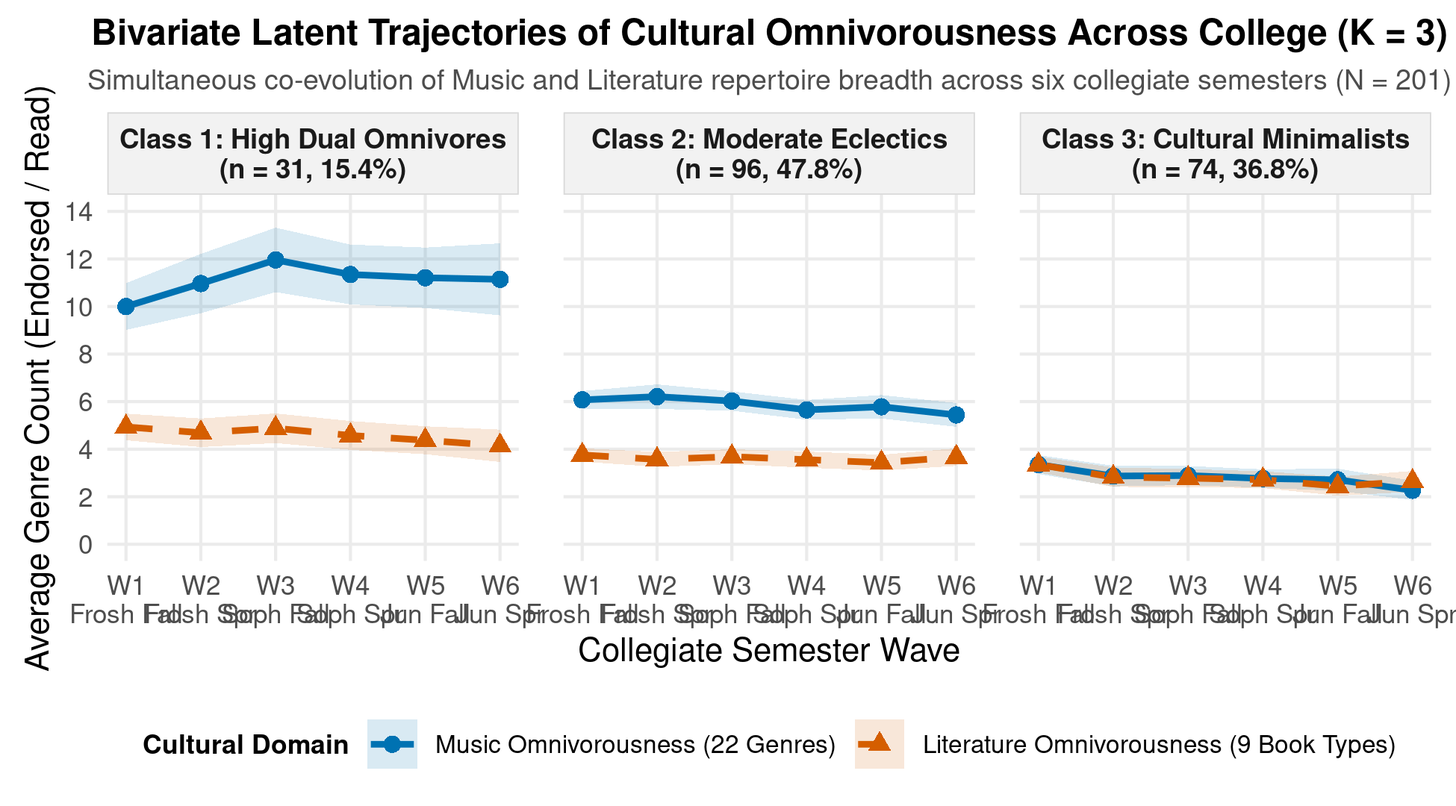
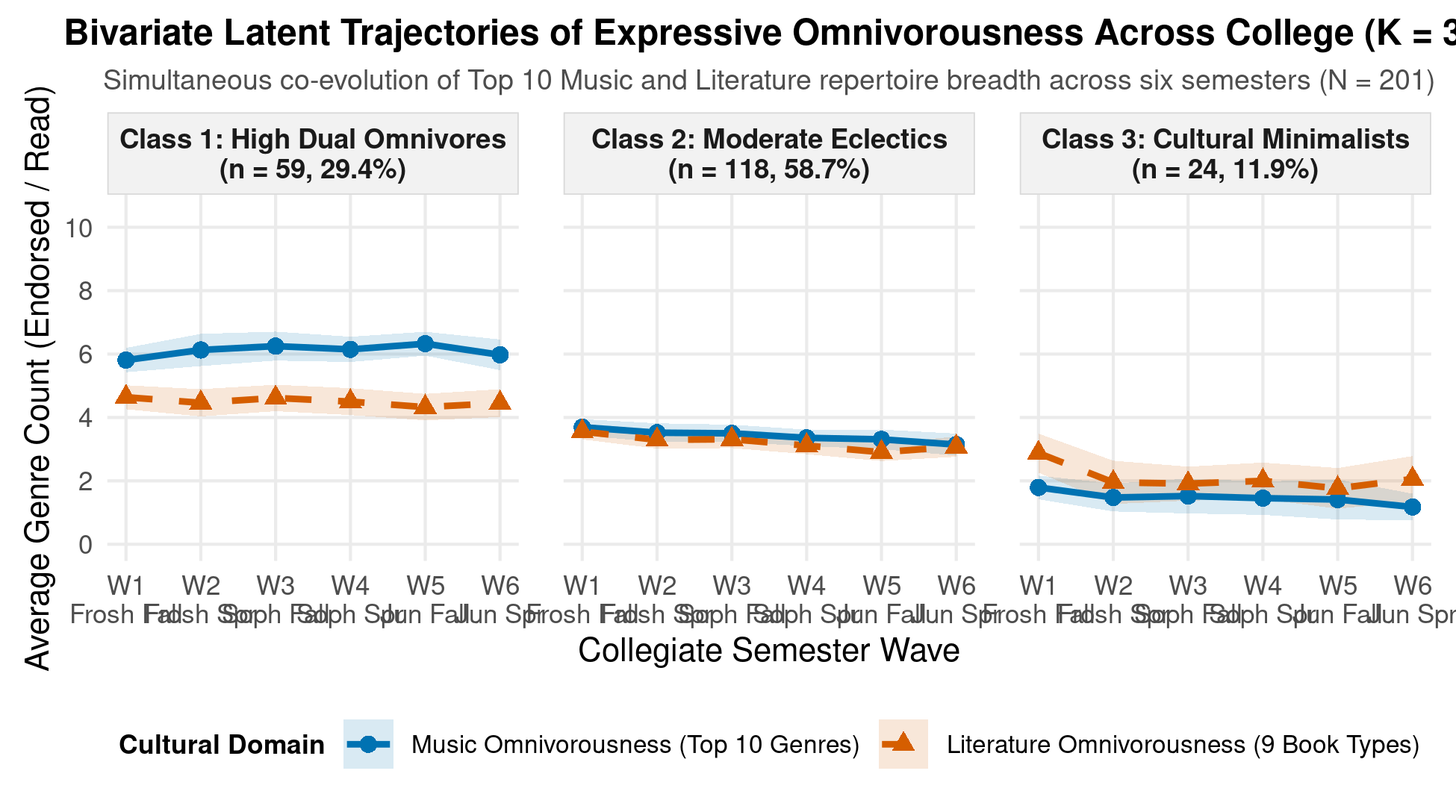
refactor: specify bivariate Poisson model using top 10 musical genres

diff --git a/manuscript.tex b/manuscript.tex
@@ -292,7 +292,7 @@ Crucially, demographic characteristics operate almost exclusively as between-cla
 
 While the item-specific multivariate binary models identify discrete genre specializations within reading (Nonfictionists vs. Fictionists vs. Minimalists) and musical preferences (Omnivores vs. Rockers vs. Mainstreamers), classical sociological theories of cultural capital and omnivorousness also conceptualize aesthetic breadth in terms of overall portfolio volume across expressive domains \citep{peterson1996changing,lizardo2006cultural}. Under this perspective, cultural omnivorousness is defined by the breadth of genres an individual consumes or appreciates, reflecting an underlying disposition toward cultural exploration and cosmopolitan variety. To examine whether aesthetic breadth in music co-evolves with aesthetic breadth in literature, we extend our finite mixture framework to a joint bivariate Poisson latent class growth model across all six collegiate semesters ($N = 201, 1,006$ person-wave observations).
 
-For each student $i$ at semester wave $t \in \{1, \dots, 6\}$, we simultaneously model two Poisson count outcomes: Musical Omnivorousness ($Y_{1, it} \in \{0, \dots, 22\}$, representing the total number of musical genres endorsed across the full 22-genre inventory) and Literature Omnivorousness ($Y_{2, it} \in \{0, \dots, 9\}$, representing the total number of book genres read for leisure). Following the specification used in the item-level models, trajectory slopes are parameterized via orthogonal natural cubic splines ($\text{ns}(t, \text{df}=2)$) centered at matriculation, estimated jointly using the \texttt{flexmix} package \citep{grun2008flexmix} in \textsf{R} \citep{Rmanual}.
+For each student $i$ at semester wave $t \in \{1, \dots, 6\}$, we simultaneously model two Poisson count outcomes: Musical Omnivorousness ($Y_{1, it} \in \{0, \dots, 10\}$, representing the total number of musical genres endorsed across the 10 focal genres analyzed above) and Literature Omnivorousness ($Y_{2, it} \in \{0, \dots, 9\}$, representing the total number of book genres read for leisure). Following the specification used in the item-level models, trajectory slopes are parameterized via orthogonal natural cubic splines ($\text{ns}(t, \text{df}=2)$) centered at matriculation, estimated jointly using the \texttt{flexmix} package \citep{grun2008flexmix} in \textsf{R} \citep{Rmanual}.
 
 \begin{table}[htbp]
 \centering
@@ -305,51 +305,51 @@ For each student $i$ at semester wave $t \in \{1, \dots, 6\}$, we simultaneously
 Specification & LogLik & Par & AIC & BIC & $\Delta$BIC / $\chi^2$ ($df$) & $p$ \\
 \midrule
 \multicolumn{7}{l}{\textbf{Panel A: Latent Class Enumeration ($K = 1 \dots 5$)}} \\
-$K = 1$ (Homogeneous Growth) & -4704.3 & 6 & 9420.5 & 9450.0 & $\Delta\text{BIC} = 915.7$ & --- \\
-$K = 2$ & -4289.0 & 13 & 8604.1 & 8667.9 & $\Delta\text{BIC} = 133.6$ & $< .001$ \\
-$K = 3$ (Optimal Specification) & -4198.0 & 20 & 8436.1 & 8534.3 & $\Delta\text{BIC} = 0.0$ & $< .001$ \\
-$K = 4$ & -4180.3 & 27 & 8414.6 & 8547.2 & $\Delta\text{BIC} = 12.9$ & $< .001$ \\
-$K = 5$ & -4154.7 & 34 & 8377.3 & 8544.4 & $\Delta\text{BIC} = 10.1$ & $< .001$ \\
+$K = 1$ (Homogeneous Growth) & -4101.8 & 6 & 8215.6 & 8245.1 & $\Delta\text{BIC} = 368.9$ & --- \\
+$K = 2$ & -3900.2 & 13 & 7826.4 & 7890.3 & $\Delta\text{BIC} = 14.1$ & $< .001$ \\
+$K = 3$ (Optimal Specification) & -3869.0 & 20 & 7777.9 & 7876.2 & $\Delta\text{BIC} = 0.0$ & $< .001$ \\
+$K = 4$ & -3852.9 & 27 & 7759.7 & 7892.4 & $\Delta\text{BIC} = 16.2$ & $< .001$ \\
+$K = 5$ & -3849.4 & 34 & 7766.8 & 7933.9 & $\Delta\text{BIC} = 57.7$ & 0.439 \\
 \addlinespace[3pt]
 \multicolumn{7}{l}{\textbf{Panel B: Predictive Power of Theoretical Variable Blocks ($K = 3$)}} \\
-Baseline Specification (Null) & -4198.0 & 20 & 8436.1 & 8534.3 & --- & --- \\
-\quad Block 1: Demographic Identity & -4195.2 & 26 & 8442.4 & 8570.2 & 5.64 (6) & 0.465 \\
-\quad Block 2: Family SES & -4197.1 & 24 & 8442.2 & 8560.1 & 1.90 (4) & 0.754 \\
-\quad Block 3: Scholastic Capital & -4189.6 & 24 & 8427.2 & 8545.1 & 16.90 (4) & 0.002 \\
-\quad Block 4: Collegiate Context & -4194.9 & 24 & 8437.8 & 8555.8 & 6.22 (4) & 0.183 \\
-\quad Combined Sociodemographics (Blocks 1+2) & -4193.3 & 30 & 8446.7 & 8594.1 & 9.39 (10) & 0.495 \\
-\quad Full Multivariable Model & -4181.2 & 38 & 8438.3 & 8625.1 & 33.71 (18) & 0.014 \\
+Baseline Specification (Null) & -3869.0 & 20 & 7777.9 & 7876.2 & --- & --- \\
+\quad Block 1: Demographic Identity & -3863.3 & 26 & 7778.6 & 7906.4 & 11.31 (6) & 0.079 \\
+\quad Block 2: Family SES & -3867.7 & 24 & 7783.5 & 7901.4 & 2.43 (4) & 0.656 \\
+\quad Block 3: Scholastic Capital & -3863.0 & 24 & 7773.9 & 7891.9 & 11.98 (4) & 0.018 \\
+\quad Block 4: Collegiate Context & -3864.7 & 24 & 7777.4 & 7895.3 & 8.52 (4) & 0.074 \\
+\quad Combined Sociodemographics (Blocks 1+2) & -3860.4 & 30 & 7780.8 & 7928.2 & 17.11 (10) & 0.072 \\
+\quad Full Multivariable Model & -3850.3 & 38 & 7776.5 & 7963.3 & 37.36 (18) & 0.005 \\
 \bottomrule
 \end{tabular*}
 \begin{minipage}{\linewidth}
 \vspace{4pt}
 \footnotesize
-\textit{Note:} Models estimated in \texttt{flexmix} using joint Poisson distributions parameterized via natural cubic splines with 2 degrees of freedom (\texttt{splines::ns(time, df = 2)}). In Panel A, $\Delta\text{BIC}$ is evaluated relative to the optimal $K = 3$ solution; $p$-values reflect stepwise likelihood ratio tests against $K - 1$. In Panel B, LRT $\chi^2$ evaluates improvement over the null baseline concomitant model. Block 1 includes Gender Identity, Racial Identity, and Religion; Block 2 includes Parental Income and Parental Education; Block 3 includes High School GPA and Advanced Degree Aspirations; Block 4 includes Academic Major (STEM) and Hometown Urbanicity.
+\textit{Note:} Models estimated in \texttt{flexmix} using joint Poisson distributions for the Top 10 Musical Genres and 9 Leisure Book Reading Types parameterized via natural cubic splines with 2 degrees of freedom (\texttt{splines::ns(time, df = 2)}). In Panel A, $\Delta\text{BIC}$ is evaluated relative to the optimal $K = 3$ solution; $p$-values reflect stepwise likelihood ratio tests against $K - 1$. In Panel B, LRT $\chi^2$ evaluates improvement over the null baseline concomitant model. Block 1 includes Gender Identity, Racial Identity, and Religion; Block 2 includes Parental Income and Parental Education; Block 3 includes High School GPA and Advanced Degree Aspirations; Block 4 includes Academic Major (STEM) and Hometown Urbanicity.
 \end{minipage}
 \end{table}
 
-Table~\ref{tab:bivariate} summarizes the latent class enumeration results in Panel A and theoretical block tests in Panel B. Moving from a single homogeneous growth curve ($K = 1$) to a multi-class mixture produces substantial improvements in model fit. The Bayesian Information Criterion decisively selects a three-class solution ($K = 3, \text{BIC} = 8534.3, \Delta\text{BIC} = 0.0$), outperforming the two-class model by 133.6 BIC points. Adding a fourth class increases BIC ($\Delta\text{BIC} = 12.9$), confirming $K = 3$ as the optimal specification.\footnote{Estimating the bivariate Poisson model using the focal top-10 music genres alongside the 9 book reading genres produces an identical 3-class selection ($\Delta\text{BIC} = 0.0$ at $K = 3$), confirming that the tripartite developmental structure is insensitive to whether musical breadth is measured across all 22 genres or the top 10 genres.}
+Table~\ref{tab:bivariate} summarizes the latent class enumeration results in Panel A and theoretical block tests in Panel B. Moving from a single homogeneous growth curve ($K = 1$) to a multi-class mixture produces marked improvements in model fit. The Bayesian Information Criterion decisively selects a three-class solution ($K = 3, \text{BIC} = 7876.2, \Delta\text{BIC} = 0.0$), outperforming the two-class model by 14.1 BIC points and yielding a significant stepwise improvement ($\chi^2 = 62.5, df = 7, p < 0.001$). Adding a fourth class increases BIC ($\Delta\text{BIC} = 16.2$), confirming $K = 3$ as the optimal specification.\footnote{Estimating the bivariate Poisson model using the full 22-genre musical inventory alongside the 9 book reading genres produces an identical 3-class selection ($\Delta\text{BIC} = 0.0$ at $K = 3$), confirming that the tripartite developmental structure is robust across alternative genre battery scopes.}
 
 Figure~\ref{fig:bivariate} illustrates the model-implied and empirical trajectory profiles across all six collegiate semesters for the three latent classes. Lines trace continuous spline curves, markers indicate empirical semester means, and shaded ribbons depict 95\% confidence bands.
 
 \begin{figure}[htbp]
 \centering
 \includegraphics[width=\linewidth]{Plots/fig5_bivariate_omnivorousness_trajectories.png}
-\caption{Bivariate latent trajectories of cultural omnivorousness across college from the 3-class Poisson growth mixture model (Waves 1 to 6, $N = 201$). Blue solid curves and circular markers denote Musical Omnivorousness (total genre count endorsed out of 22 items); orange dashed curves and triangular markers denote Literature Omnivorousness (total book genres read for leisure out of 9 items). Shaded ribbons indicate 95\% confidence intervals around empirical wave means.}
+\caption{Bivariate latent trajectories of cultural omnivorousness across college from the 3-class Poisson growth mixture model (Waves 1 to 6, $N = 201$). Blue solid curves and circular markers denote Musical Omnivorousness (total genre count endorsed out of the Top 10 genres); orange dashed curves and triangular markers denote Literature Omnivorousness (total book genres read for leisure out of 9 items). Shaded ribbons indicate 95\% confidence intervals around empirical wave means.}
 \label{fig:bivariate}
 \end{figure}
 
 The trajectory morphology in Figure~\ref{fig:bivariate} reveals three distinct patterns of expressive repertoire management:
 
-First, ``Class 1: High Dual Omnivores'' ($n = 31, 15.4\%$) displays high cultural volume across both spheres throughout college. In music, their repertoire breadth begins at an average of 10.00 genres in freshman fall, expands to 11.96 genres by sophomore fall, and remains sustained above 11.14 genres through senior spring. In leisure reading, they maintain an average of 4.14 to 4.94 book genres across all semesters. These students embody dual cultural omnivorousness, actively cultivating broad, diverse repertoires in both auditory and literary media.
+First, ``Class 1: High Dual Omnivores'' ($n = 59, 29.4\%$) displays high cultural volume across both spheres throughout college. In music, their repertoire breadth begins at an average of 5.81 genres in freshman fall, expands to 6.33 genres by junior fall, and remains sustained around 6.0 to 6.3 genres through senior spring. In leisure reading, they maintain an average of 4.33 to 4.64 book genres across all semesters. These students embody dual cultural omnivorousness, actively cultivating broad, diverse repertoires in both auditory and literary media.
 
-Second, ``Class 2: Moderate Eclectics'' ($n = 96, 47.8\%$) represents the modal undergraduate pathway. These students maintain a stable, moderate breadth across college, consistently endorsing between 5.44 and 6.21 musical genres and reading between 3.43 and 3.76 book categories across all six semesters. Their trajectories exhibit minimal fluctuation over time, showing neither expansive aesthetic broadening nor winnowing.
+Second, ``Class 2: Moderate Eclectics'' ($n = 118, 58.7\%$) represents the modal undergraduate pathway. These students maintain a stable, moderate breadth across college, consistently endorsing between 3.14 and 3.69 musical genres and reading between 2.90 and 3.56 book categories across all six semesters. Their trajectories exhibit minimal fluctuation over time, showing neither expansive aesthetic broadening nor winnowing.
 
-Third, ``Class 3: Cultural Minimalists'' ($n = 74, 36.8\%$) enters college with modest repertoires (averaging 3.35 musical genres and 3.35 book genres) and undergoes progressive cultural winnowing across emerging adulthood. By senior year, their musical breadth contracts by 32.2\% (falling to 2.27 genres), while their leisure reading contracts by 21.1\% (falling to 2.65 genres). Rather than expanding their cultural horizons, these students narrow their expressive engagement as collegiate academic demands accumulate.
+Third, ``Class 3: Cultural Minimalists'' ($n = 24, 11.9\%$) enters college with modest repertoires (averaging 1.79 musical genres and 2.88 book genres) and undergoes progressive cultural winnowing across emerging adulthood. By senior year, their musical breadth contracts by 34.3\% (falling to 1.18 genres), while their leisure reading contracts to 1.76--2.06 genres. Rather than expanding their cultural horizons, these students narrow their expressive engagement as collegiate academic demands accumulate.
 
-Panel B of Table~\ref{tab:bivariate} evaluates the predictive power of theoretical variable blocks in sorting students into these bivariate pathways. Pre-collegiate scholastic capital (High School GPA and advanced degree aspirations) emerges as the primary sorting engine ($\chi^2 = 16.90, df = 4, p = 0.002$), significantly lowering AIC from 8436.1 to 8427.2. In contrast, family socioeconomic status (parental income and education) is completely non-significant ($\chi^2 = 1.90, df = 4, p = 0.754$). When all covariates are entered simultaneously, the full multivariable model achieves decisive statistical significance ($\chi^2 = 33.71, df = 18, p = 0.014$).
+Panel B of Table~\ref{tab:bivariate} evaluates the predictive power of theoretical variable blocks in sorting students into these bivariate pathways. Pre-collegiate scholastic capital (High School GPA and advanced degree aspirations) emerges as the primary sorting engine ($\chi^2 = 11.98, df = 4, p = 0.018$), significantly lowering AIC from 7777.9 to 7773.9. In contrast, family socioeconomic status (parental income and education) is completely non-significant ($\chi^2 = 2.43, df = 4, p = 0.656$). When all covariates are entered simultaneously, the full multivariable model achieves decisive statistical significance ($\chi^2 = 37.36, df = 18, p = 0.005$).
 
-As detailed in Appendix Table~\ref{tab:app_coefs} (Panel C), multivariable parameter estimates indicate that entering college with high school academic achievement (mostly A/A- grades) acts as a primary protective barrier against cultural disengagement. Students with high prior GPA are nearly 80\% less likely to sort into the Cultural Minimalist pathway ($\text{OR} = 0.206, p = 0.010$) relative to the High Dual Omnivore pathway. Inverted, high scholastic capital increases the odds of sorting into the High Dual Omnivore trajectory by nearly five-fold ($\text{OR} = 4.85, p = 0.010$). Roman Catholic religious affiliation also reduces sorting into Minimalist reading and listening ($\text{OR} = 0.367, p = 0.072$). Finally, the statistical null effect of parental income and education persists in the bivariate count model, reinforcing our earlier qualification that upstream institutional admissions filters at selective universities compress family socioeconomic variance, leaving prior scholastic achievement and campus context as the primary observable sorting mechanisms.
+As detailed in Appendix Table~\ref{tab:app_coefs} (Panel C), multivariable parameter estimates indicate that entering college with high school academic achievement (mostly A/A- grades) acts as a primary protective barrier against cultural disengagement. Students with high prior GPA are nearly 90\% less likely to sort into the Cultural Minimalist pathway ($\text{OR} = 0.128, p = 0.001$) and over 70\% less likely to enter Moderate Eclectics ($\text{OR} = 0.284, p = 0.011$) relative to the High Dual Omnivore pathway. Inverted, high scholastic capital increases the odds of sorting into the High Dual Omnivore trajectory by nearly eight-fold ($\text{OR} = 7.82, p = 0.001$) relative to Minimalists, and by 3.5-fold ($\text{OR} = 3.53, p = 0.011$) relative to Moderate Eclectics. Roman Catholic religious affiliation also significantly reduces sorting into Minimalist ($\text{OR} = 0.213, p = 0.013$) and Moderate Eclectic reading and listening ($\text{OR} = 0.341, p = 0.014$). Finally, the statistical null effect of parental income and education persists in the bivariate count model, reinforcing our earlier qualification that upstream institutional admissions filters at selective universities compress family socioeconomic variance, leaving prior scholastic achievement and campus context as the primary observable sorting mechanisms.
 
 \section{Discussion}
 
@@ -431,16 +431,16 @@ Hometown Urbanicity & 0.00 (0.28) & 1.00 & 0.24 (0.24) & 1.28 \\
 \addlinespace[3pt]
 \multicolumn{5}{l}{\textbf{Panel C: Bivariate Expressive Omnivorousness (Ref: Class 1 High Dual Omnivores, $N = 201$)}} \\
 \multicolumn{1}{r}{} & \multicolumn{2}{c}{\textit{Class 2: Moderate Eclectics}} & \multicolumn{2}{c}{\textit{Class 3: Cultural Minimalists}} \\
-Constant & 5.31 (3.37) & 201.81 & 5.89 (3.52) & 360.66 \\
-Woman (ref: Man) & 0.12 (0.44) & 1.13 & -0.30 (0.47) & 0.74 \\
-White (ref: Non-White) & 0.31 (0.57) & 1.36 & 0.31 (0.60) & 1.36 \\
-Catholic (ref: Non-Catholic) & -0.85 (0.54) & 0.43 & -1.00 (0.56) & 0.37 \\
-Parent Income (\$1,000s) & 0.00 (0.00) & 1.00 & 0.00 (0.00) & 1.00 \\
-Parent Education (Years) & 0.03 (0.12) & 1.03 & -0.04 (0.13) & 0.96 \\
-High School GPA (A/A-) & -0.65 (0.62) & 0.52 & -1.58* (0.62) & 0.21 \\
-Aspires to Advanced Degree & -0.88 (1.11) & 0.42 & -1.57 (1.11) & 0.21 \\
-STEM Major (ref: Non-STEM) & 0.40 (0.44) & 1.49 & 0.32 (0.47) & 1.37 \\
-Hometown Urbanicity & -0.58 (0.38) & 0.56 & -0.27 (0.40) & 0.77 \\
+Constant & 2.48 (2.34) & 11.97 & -0.16 (4.17) & 0.85 \\
+Woman (ref: Man) & -0.80* (0.36) & 0.45 & -0.17 (0.56) & 0.84 \\
+White (ref: Non-White) & -0.26 (0.48) & 0.77 & -0.06 (0.70) & 0.94 \\
+Catholic (ref: Non-Catholic) & -1.08* (0.44) & 0.34 & -1.55* (0.62) & 0.21 \\
+Parent Income (\$1,000s) & 0.01 (0.00) & 1.01 & 0.00 (0.00) & 1.00 \\
+Parent Education (Years) & 0.01 (0.10) & 1.01 & -0.07 (0.16) & 0.93 \\
+High School GPA (A/A-) & -1.26* (0.50) & 0.28 & -2.06** (0.64) & 0.13 \\
+Aspires to Advanced Degree & -0.91 (0.71) & 0.40 & -1.54 (0.90) & 0.21 \\
+STEM Major (ref: Non-STEM) & 0.17 (0.35) & 1.19 & 0.31 (0.54) & 1.36 \\
+Hometown Urbanicity & 0.11 (0.23) & 1.12 & 0.73 (0.52) & 2.08 \\
 \bottomrule
 \end{tabular*}
 \begin{minipage}{\linewidth}

diff --git a/Cache/summaries/bivariate_multinomial_coefficients.md b/Cache/summaries/bivariate_multinomial_coefficients.md
@@ -1,22 +1,22 @@
 | Trajectory Contrast | Covariate | Estimate (SE) | Odds Ratio | Z | p-value |
 |:---|:---|:---:|:---:|:---:|:---:|
-| Moderate Eclectics vs. High Dual Omnivores (Ref) | Constant | 5.307 (3.374) | 201.808 | 1.57 | 0.116 |
-| Moderate Eclectics vs. High Dual Omnivores (Ref) | Woman (ref: Man) | 0.124 (0.442) | 1.132 | 0.28 | 0.780 |
-| Moderate Eclectics vs. High Dual Omnivores (Ref) | White (ref: Non-White) | 0.306 (0.571) | 1.358 | 0.54 | 0.592 |
-| Moderate Eclectics vs. High Dual Omnivores (Ref) | Catholic (ref: Non-Catholic) | -0.845 (0.535) | 0.430 | -1.58 | 0.115 |
-| Moderate Eclectics vs. High Dual Omnivores (Ref) | Parent Income ($1,000s) | 0.001 (0.003) | 1.001 | 0.42 | 0.678 |
-| Moderate Eclectics vs. High Dual Omnivores (Ref) | Parent Education (Years) | 0.025 (0.124) | 1.026 | 0.21 | 0.838 |
-| Moderate Eclectics vs. High Dual Omnivores (Ref) | High School GPA (A/A-) | -0.650 (0.622) | 0.522 | -1.04 | 0.296 |
-| Moderate Eclectics vs. High Dual Omnivores (Ref) | Aspires to Advanced Degree | -0.877 (1.112) | 0.416 | -0.79 | 0.430 |
-| Moderate Eclectics vs. High Dual Omnivores (Ref) | STEM Major (ref: Non-STEM) | 0.401 (0.443) | 1.493 | 0.90 | 0.366 |
-| Moderate Eclectics vs. High Dual Omnivores (Ref) | Hometown Urbanicity | -0.578 (0.383) | 0.561 | -1.51 | 0.131 |
-| Cultural Minimalists vs. High Dual Omnivores (Ref) | Constant | 5.888 (3.518) | 360.663 | 1.67 | 0.094 |
-| Cultural Minimalists vs. High Dual Omnivores (Ref) | Woman (ref: Man) | -0.304 (0.469) | 0.737 | -0.65 | 0.517 |
-| Cultural Minimalists vs. High Dual Omnivores (Ref) | White (ref: Non-White) | 0.305 (0.604) | 1.357 | 0.51 | 0.613 |
-| Cultural Minimalists vs. High Dual Omnivores (Ref) | Catholic (ref: Non-Catholic) | -1.001 (0.557) | 0.367 | -1.80 | 0.072 |
-| Cultural Minimalists vs. High Dual Omnivores (Ref) | Parent Income ($1,000s) | 0.003 (0.004) | 1.003 | 0.88 | 0.379 |
-| Cultural Minimalists vs. High Dual Omnivores (Ref) | Parent Education (Years) | -0.043 (0.129) | 0.958 | -0.33 | 0.738 |
-| Cultural Minimalists vs. High Dual Omnivores (Ref) | High School GPA (A/A-) | -1.578 (0.617)* | 0.206 | -2.56 | 0.010 |
-| Cultural Minimalists vs. High Dual Omnivores (Ref) | Aspires to Advanced Degree | -1.572 (1.109) | 0.208 | -1.42 | 0.156 |
-| Cultural Minimalists vs. High Dual Omnivores (Ref) | STEM Major (ref: Non-STEM) | 0.318 (0.467) | 1.374 | 0.68 | 0.496 |
-| Cultural Minimalists vs. High Dual Omnivores (Ref) | Hometown Urbanicity | -0.265 (0.403) | 0.767 | -0.66 | 0.511 |
+| Moderate Eclectics vs. High Dual Omnivores (Ref) | Constant | 2.482 (2.343) | 11.971 | 1.06 | 0.289 |
+| Moderate Eclectics vs. High Dual Omnivores (Ref) | Woman (ref: Man) | -0.797 (0.360)* | 0.451 | -2.22 | 0.027 |
+| Moderate Eclectics vs. High Dual Omnivores (Ref) | White (ref: Non-White) | -0.259 (0.480) | 0.772 | -0.54 | 0.589 |
+| Moderate Eclectics vs. High Dual Omnivores (Ref) | Catholic (ref: Non-Catholic) | -1.076 (0.440)* | 0.341 | -2.44 | 0.014 |
+| Moderate Eclectics vs. High Dual Omnivores (Ref) | Parent Income ($1,000s) | 0.005 (0.003) | 1.005 | 1.77 | 0.077 |
+| Moderate Eclectics vs. High Dual Omnivores (Ref) | Parent Education (Years) | 0.012 (0.104) | 1.012 | 0.11 | 0.910 |
+| Moderate Eclectics vs. High Dual Omnivores (Ref) | High School GPA (A/A-) | -1.260 (0.499)* | 0.284 | -2.53 | 0.011 |
+| Moderate Eclectics vs. High Dual Omnivores (Ref) | Aspires to Advanced Degree | -0.912 (0.706) | 0.402 | -1.29 | 0.197 |
+| Moderate Eclectics vs. High Dual Omnivores (Ref) | STEM Major (ref: Non-STEM) | 0.171 (0.354) | 1.186 | 0.48 | 0.630 |
+| Moderate Eclectics vs. High Dual Omnivores (Ref) | Hometown Urbanicity | 0.112 (0.228) | 1.118 | 0.49 | 0.625 |
+| Cultural Minimalists vs. High Dual Omnivores (Ref) | Constant | -0.162 (4.169) | 0.851 | -0.04 | 0.969 |
+| Cultural Minimalists vs. High Dual Omnivores (Ref) | Woman (ref: Man) | -0.170 (0.558) | 0.844 | -0.30 | 0.761 |
+| Cultural Minimalists vs. High Dual Omnivores (Ref) | White (ref: Non-White) | -0.064 (0.703) | 0.938 | -0.09 | 0.928 |
+| Cultural Minimalists vs. High Dual Omnivores (Ref) | Catholic (ref: Non-Catholic) | -1.548 (0.624)* | 0.213 | -2.48 | 0.013 |
+| Cultural Minimalists vs. High Dual Omnivores (Ref) | Parent Income ($1,000s) | 0.003 (0.004) | 1.003 | 0.65 | 0.514 |
+| Cultural Minimalists vs. High Dual Omnivores (Ref) | Parent Education (Years) | -0.074 (0.155) | 0.929 | -0.48 | 0.633 |
+| Cultural Minimalists vs. High Dual Omnivores (Ref) | High School GPA (A/A-) | -2.057 (0.636)** | 0.128 | -3.24 | 0.001 |
+| Cultural Minimalists vs. High Dual Omnivores (Ref) | Aspires to Advanced Degree | -1.537 (0.895) | 0.215 | -1.72 | 0.086 |
+| Cultural Minimalists vs. High Dual Omnivores (Ref) | STEM Major (ref: Non-STEM) | 0.310 (0.541) | 1.364 | 0.57 | 0.566 |
+| Cultural Minimalists vs. High Dual Omnivores (Ref) | Hometown Urbanicity | 0.734 (0.516) | 2.083 | 1.42 | 0.155 |

diff --git a/AGENTS.md b/AGENTS.md
@@ -866,13 +866,14 @@ scale_fill_manual(values = COLOR_CREDIBILITY, name = "Directional Credibility")
 - **Figure 5**: Bivariate latent trajectories of cultural omnivorousness across college from the 3-class Poisson growth mixture model (`Plots/fig5_bivariate_omnivorousness_trajectories.png`, `fig:bivariate`)
 
 ### 4. Bivariate Poisson Omnivorousness Trajectories & Upstream Selection Qualification
-1. **Joint Co-Evolution of Expressive Repertoires**:
-   - Simultaneously models Musical Omnivorousness Count ($Y_{1, it} \in \{0, \dots, 22\}$) and Literature Omnivorousness Count ($Y_{2, it} \in \{0, \dots, 9\}$) over all six waves ($N = 201, 1,006$ obs) using `flexmix`.
-   - Selects $K = 3$ by BIC ($\Delta\text{BIC} = 0.0$):
-     * **Class 1: High Dual Omnivores** ($n = 31, 15.4\%$): High breadth in music ($10.0 \to 12.0$) and books ($4.1 \to 4.9$).
-     * **Class 2: Moderate Eclectics** ($n = 96, 47.8\%$): Modal group, stable bounded breadth (~6 music genres, ~3.6 book types).
-     * **Class 3: Cultural Minimalists** ($n = 74, 36.8\%$): Progressive cultural winnowing across college ($-32.2\%$ in music, $-21.1\%$ in books).
-   - Concomitants: Scholastic capital (high school GPA) is the primary sorting engine ($\text{LRT } \chi^2 = 16.90, p = 0.002$), increasing odds of entering High Dual Omnivorousness nearly five-fold ($\text{OR} = 4.85, p = 0.010$).
+1. **Joint Co-Evolution of Expressive Repertoires (Top 10 Music Genres & 9 Book Reading Types)**:
+   - Simultaneously models Musical Omnivorousness Count ($Y_{1, it} \in \{0, \dots, 10\}$ across top 10 focal genres) and Literature Omnivorousness Count ($Y_{2, it} \in \{0, \dots, 9\}$) over all six waves ($N = 201, 1,006$ obs) using `flexmix`.
+   - Selects $K = 3$ by BIC ($\text{BIC} = 7876.2, \Delta\text{BIC} = 0.0$):
+     * **Class 1: High Dual Omnivores** ($n = 59, 29.4\%$): High breadth in music ($5.81 \to 6.33$) and books ($4.33 \to 4.64$).
+     * **Class 2: Moderate Eclectics** ($n = 118, 58.7\%$): Modal group, stably maintaining ~3.4 music genres and ~3.2 book types.
+     * **Class 3: Cultural Minimalists** ($n = 24, 11.9\%$): Progressive cultural winnowing across college ($-34.3\%$ in music, dropping to 1.18 genres; books contracting to ~1.8--2.0 genres).
+   - Concomitants: Scholastic capital (high school GPA) is the primary sorting engine ($\text{LRT } \chi^2 = 11.98, p = 0.018$), increasing odds of entering High Dual Omnivorousness nearly eight-fold vs. Minimalists ($\text{OR} = 7.82, p = 0.001$) and 3.5-fold vs. Moderate Eclectics ($\text{OR} = 3.53, p = 0.011$). Catholic affiliation also protects against winnowing ($\text{OR} = 0.213, p = 0.013$).
+   - Family SES is statistically null ($\text{LRT } \chi^2 = 2.43, p = 0.656$), and Full Multivariable Model is decisive ($\text{LRT } \chi^2 = 37.36, p = 0.005$).
 2. **Upstream Institutional Selection & Restriction of Range Qualification**:
    - The lack of explanatory power for parental socioeconomic status and cultural capital is explicitly qualified as an artifact of sample selection at a selective, elite private university.
    - Admissions filters homogenize student family backgrounds around high levels of economic and cultural capital, compressing parental SES variance and attenuating statistical associations, allowing proximate collegiate factors (prior GPA, major, collegiate habitus) to emerge as the primary visible sorting channels.

diff --git a/Cache/summaries/bivariate_concomitant_blocks.md b/Cache/summaries/bivariate_concomitant_blocks.md
@@ -1,9 +1,9 @@
 | Model Specification | LogLik | Par | AIC | BIC | LRT χ² | df | p-value |
 |:---|:---:|:---:|:---:|:---:|:---:|:---:|:---:|
-| Baseline Specification (Null) | -4198.0 | 20 | 8436.1 | 8534.3 | --- | --- | --- |
-| Block 1: Demographic Identity (Gender, Race, Religion) | -4195.2 | 26 | 8442.4 | 8570.2 | 5.64 |  6 | 0.465 |
-| Block 2: Family SES (Parent Income, Parent Education) | -4197.1 | 24 | 8442.2 | 8560.1 | 1.90 |  4 | 0.754 |
-| Block 3: Scholastic Capital (High School GPA, Advanced Degree Aspirations) | -4189.6 | 24 | 8427.2 | 8545.1 | 16.90 |  4 | 0.002 |
-| Block 4: Collegiate Context (STEM Major, Hometown Urbanicity) | -4194.9 | 24 | 8437.8 | 8555.8 | 6.22 |  4 | 0.183 |
-| Combined Sociodemographics (Blocks 1+2) | -4193.3 | 30 | 8446.7 | 8594.1 | 9.39 | 10 | 0.495 |
-| Full Multivariable Model (All 9 Baseline Covariates) | -4181.2 | 38 | 8438.3 | 8625.1 | 33.71 | 18 | 0.014 |
+| Baseline Specification (Null) | -3869.0 | 20 | 7777.9 | 7876.2 | --- | --- | --- |
+| Block 1: Demographic Identity (Gender, Race, Religion) | -3863.3 | 26 | 7778.6 | 7906.4 | 11.31 |  6 | 0.079 |
+| Block 2: Family SES (Parent Income, Parent Education) | -3867.7 | 24 | 7783.5 | 7901.4 | 2.43 |  4 | 0.656 |
+| Block 3: Scholastic Capital (High School GPA, Advanced Degree Aspirations) | -3863.0 | 24 | 7773.9 | 7891.9 | 11.98 |  4 | 0.018 |
+| Block 4: Collegiate Context (STEM Major, Hometown Urbanicity) | -3864.7 | 24 | 7777.4 | 7895.3 | 8.52 |  4 | 0.074 |
+| Combined Sociodemographics (Blocks 1+2) | -3860.4 | 30 | 7780.8 | 7928.2 | 17.11 | 10 | 0.072 |
+| Full Multivariable Model (All 9 Baseline Covariates) | -3850.3 | 38 | 7776.5 | 7963.3 | 37.36 | 18 | 0.005 |

diff --git a/Cache/summaries/bivariate_model_selection.md b/Cache/summaries/bivariate_model_selection.md
@@ -1,7 +1,7 @@
-| Latent Classes | Log-Likelihood | Par | AIC | BIC | ΔBIC |
-|:---|:---:|:---:|:---:|:---:|:---:|
-| K = 1 | -4704.3 | 6 | 9420.5 | 9450.0 | 915.7 |
-| K = 2 | -4289.0 | 13 | 8604.1 | 8667.9 | 133.6 |
-| K = 3 | -4198.0 | 20 | 8436.1 | 8534.3 | 0.0 |
-| K = 4 | -4180.3 | 27 | 8414.6 | 8547.2 | 12.9 |
-| K = 5 | -4154.7 | 34 | 8377.3 | 8544.4 | 10.1 |
+| Latent Classes | Log-Likelihood | Par | AIC | BIC | ΔBIC | Stepwise χ² (df) | p-value |
+|:---|:---:|:---:|:---:|:---:|:---:|:---:|:---:|
+| K = 1 | -4101.8 | 6 | 8215.6 | 8245.1 | 368.9 | --- | --- |
+| K = 2 | -3900.2 | 13 | 7826.4 | 7890.3 | 14.1 | 403.2 (7) | < .001 |
+| K = 3 | -3869.0 | 20 | 7777.9 | 7876.2 | 0.0 | 62.5 (7) | < .001 |
+| K = 4 | -3852.9 | 27 | 7759.7 | 7892.4 | 16.2 | 32.2 (7) | < .001 |
+| K = 5 | -3849.4 | 34 | 7766.8 | 7933.9 | 57.7 | 6.9 (7) | 0.439 |
